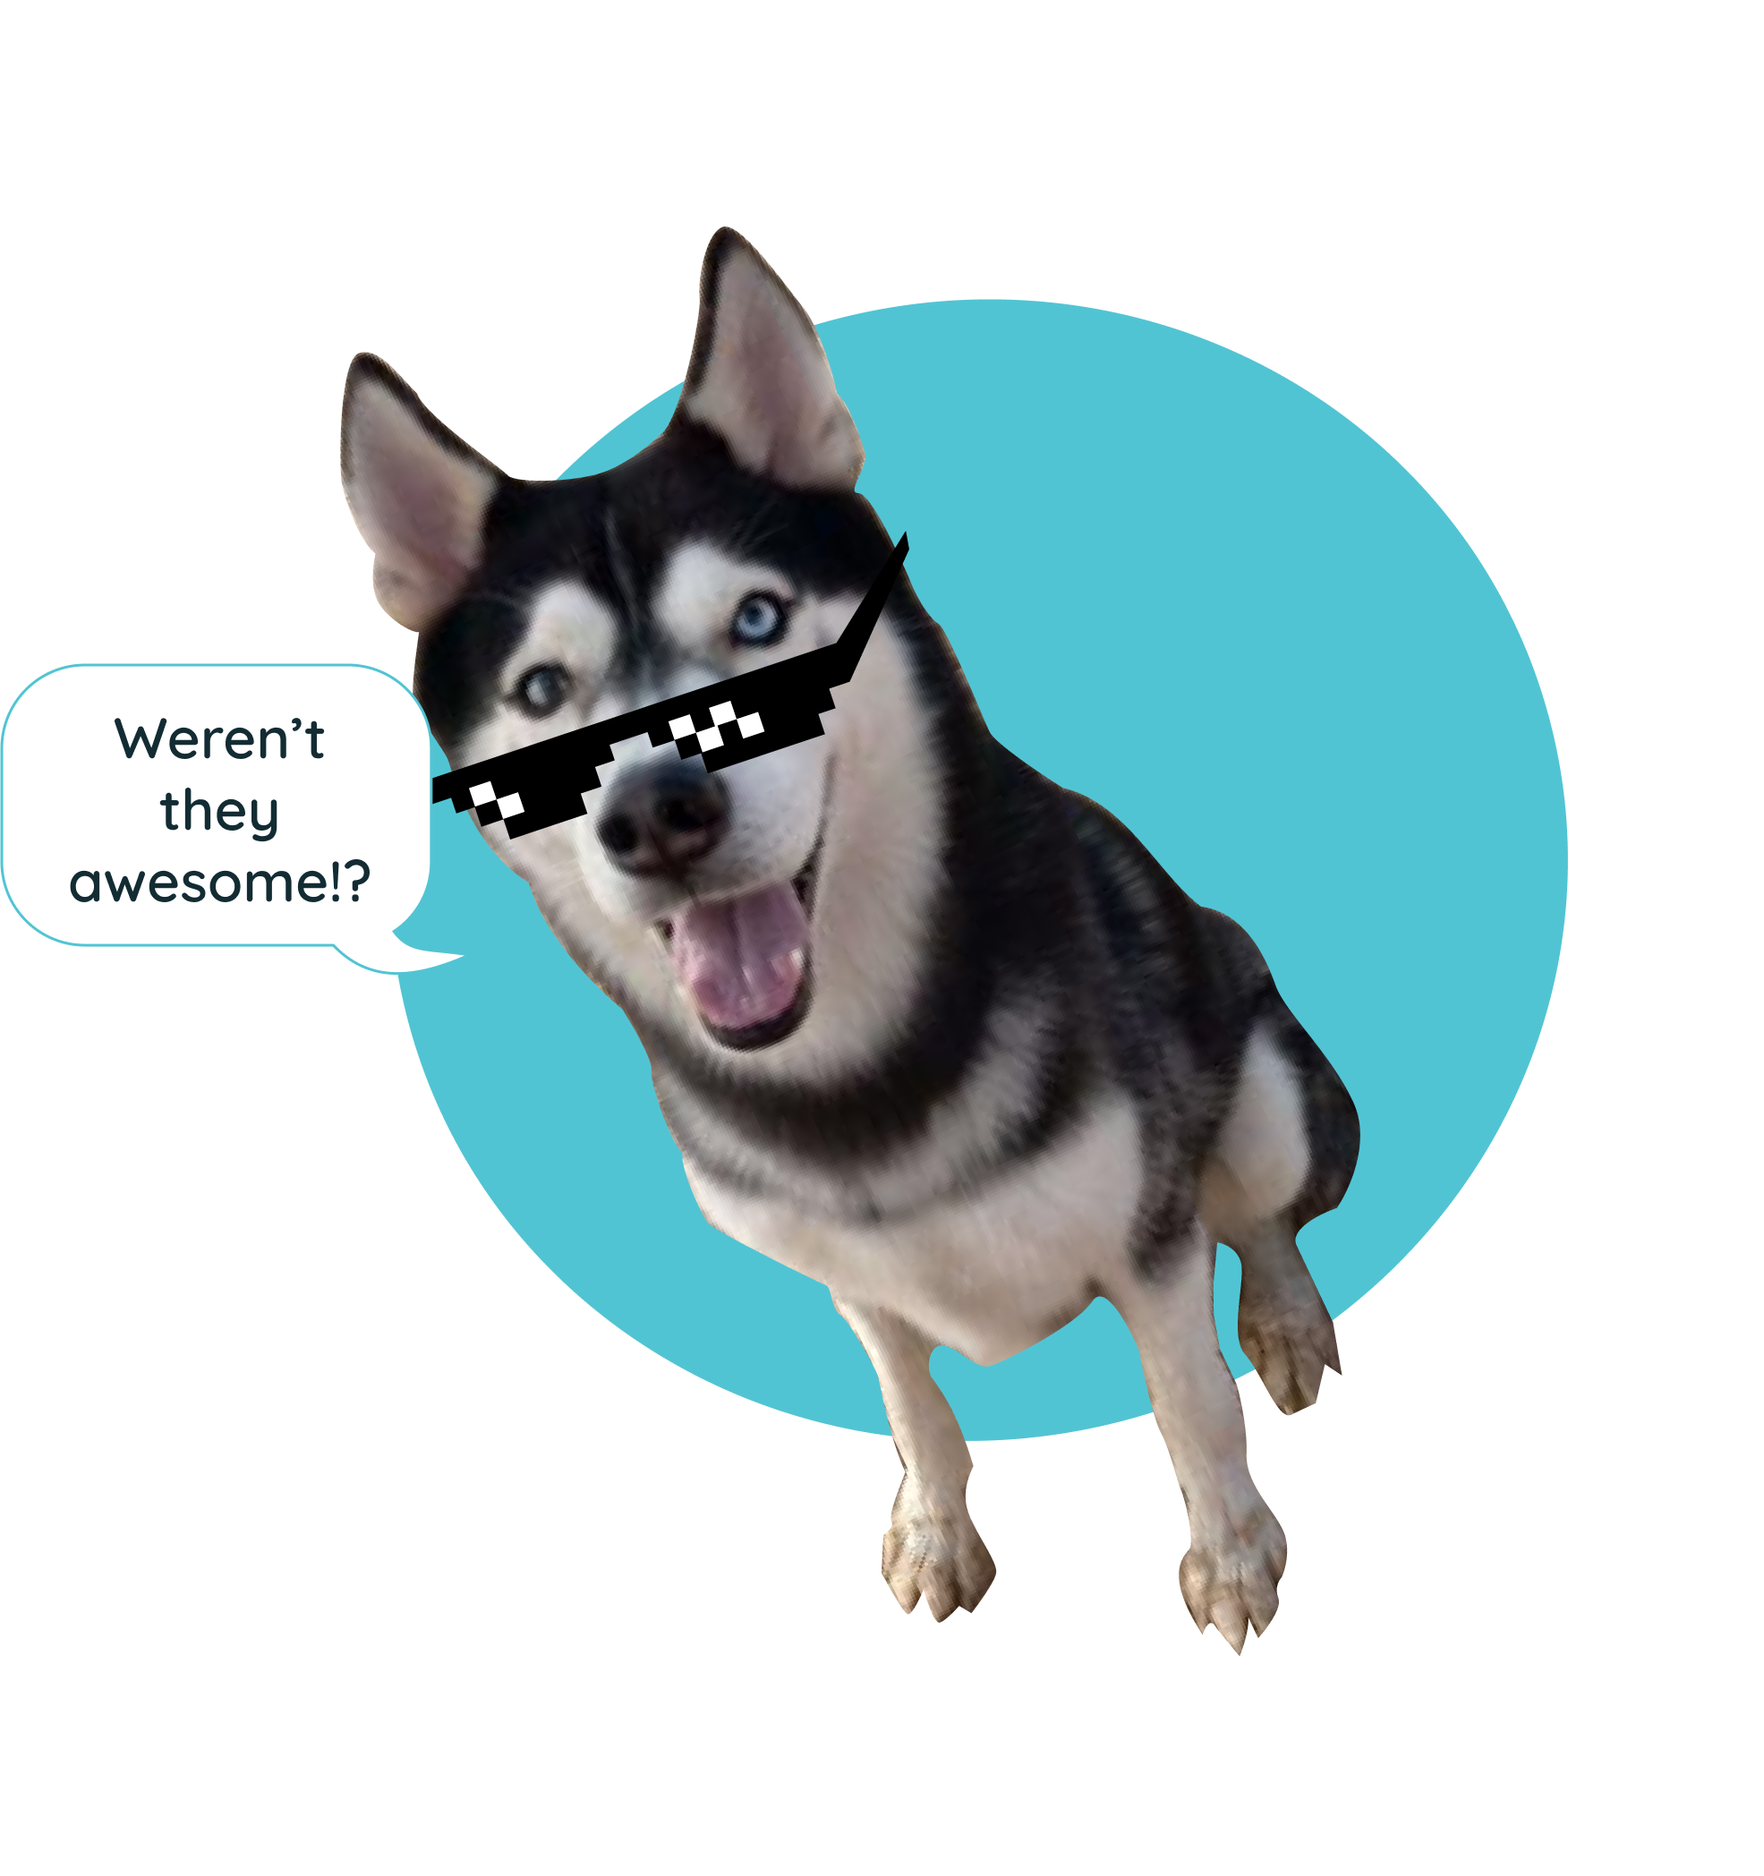
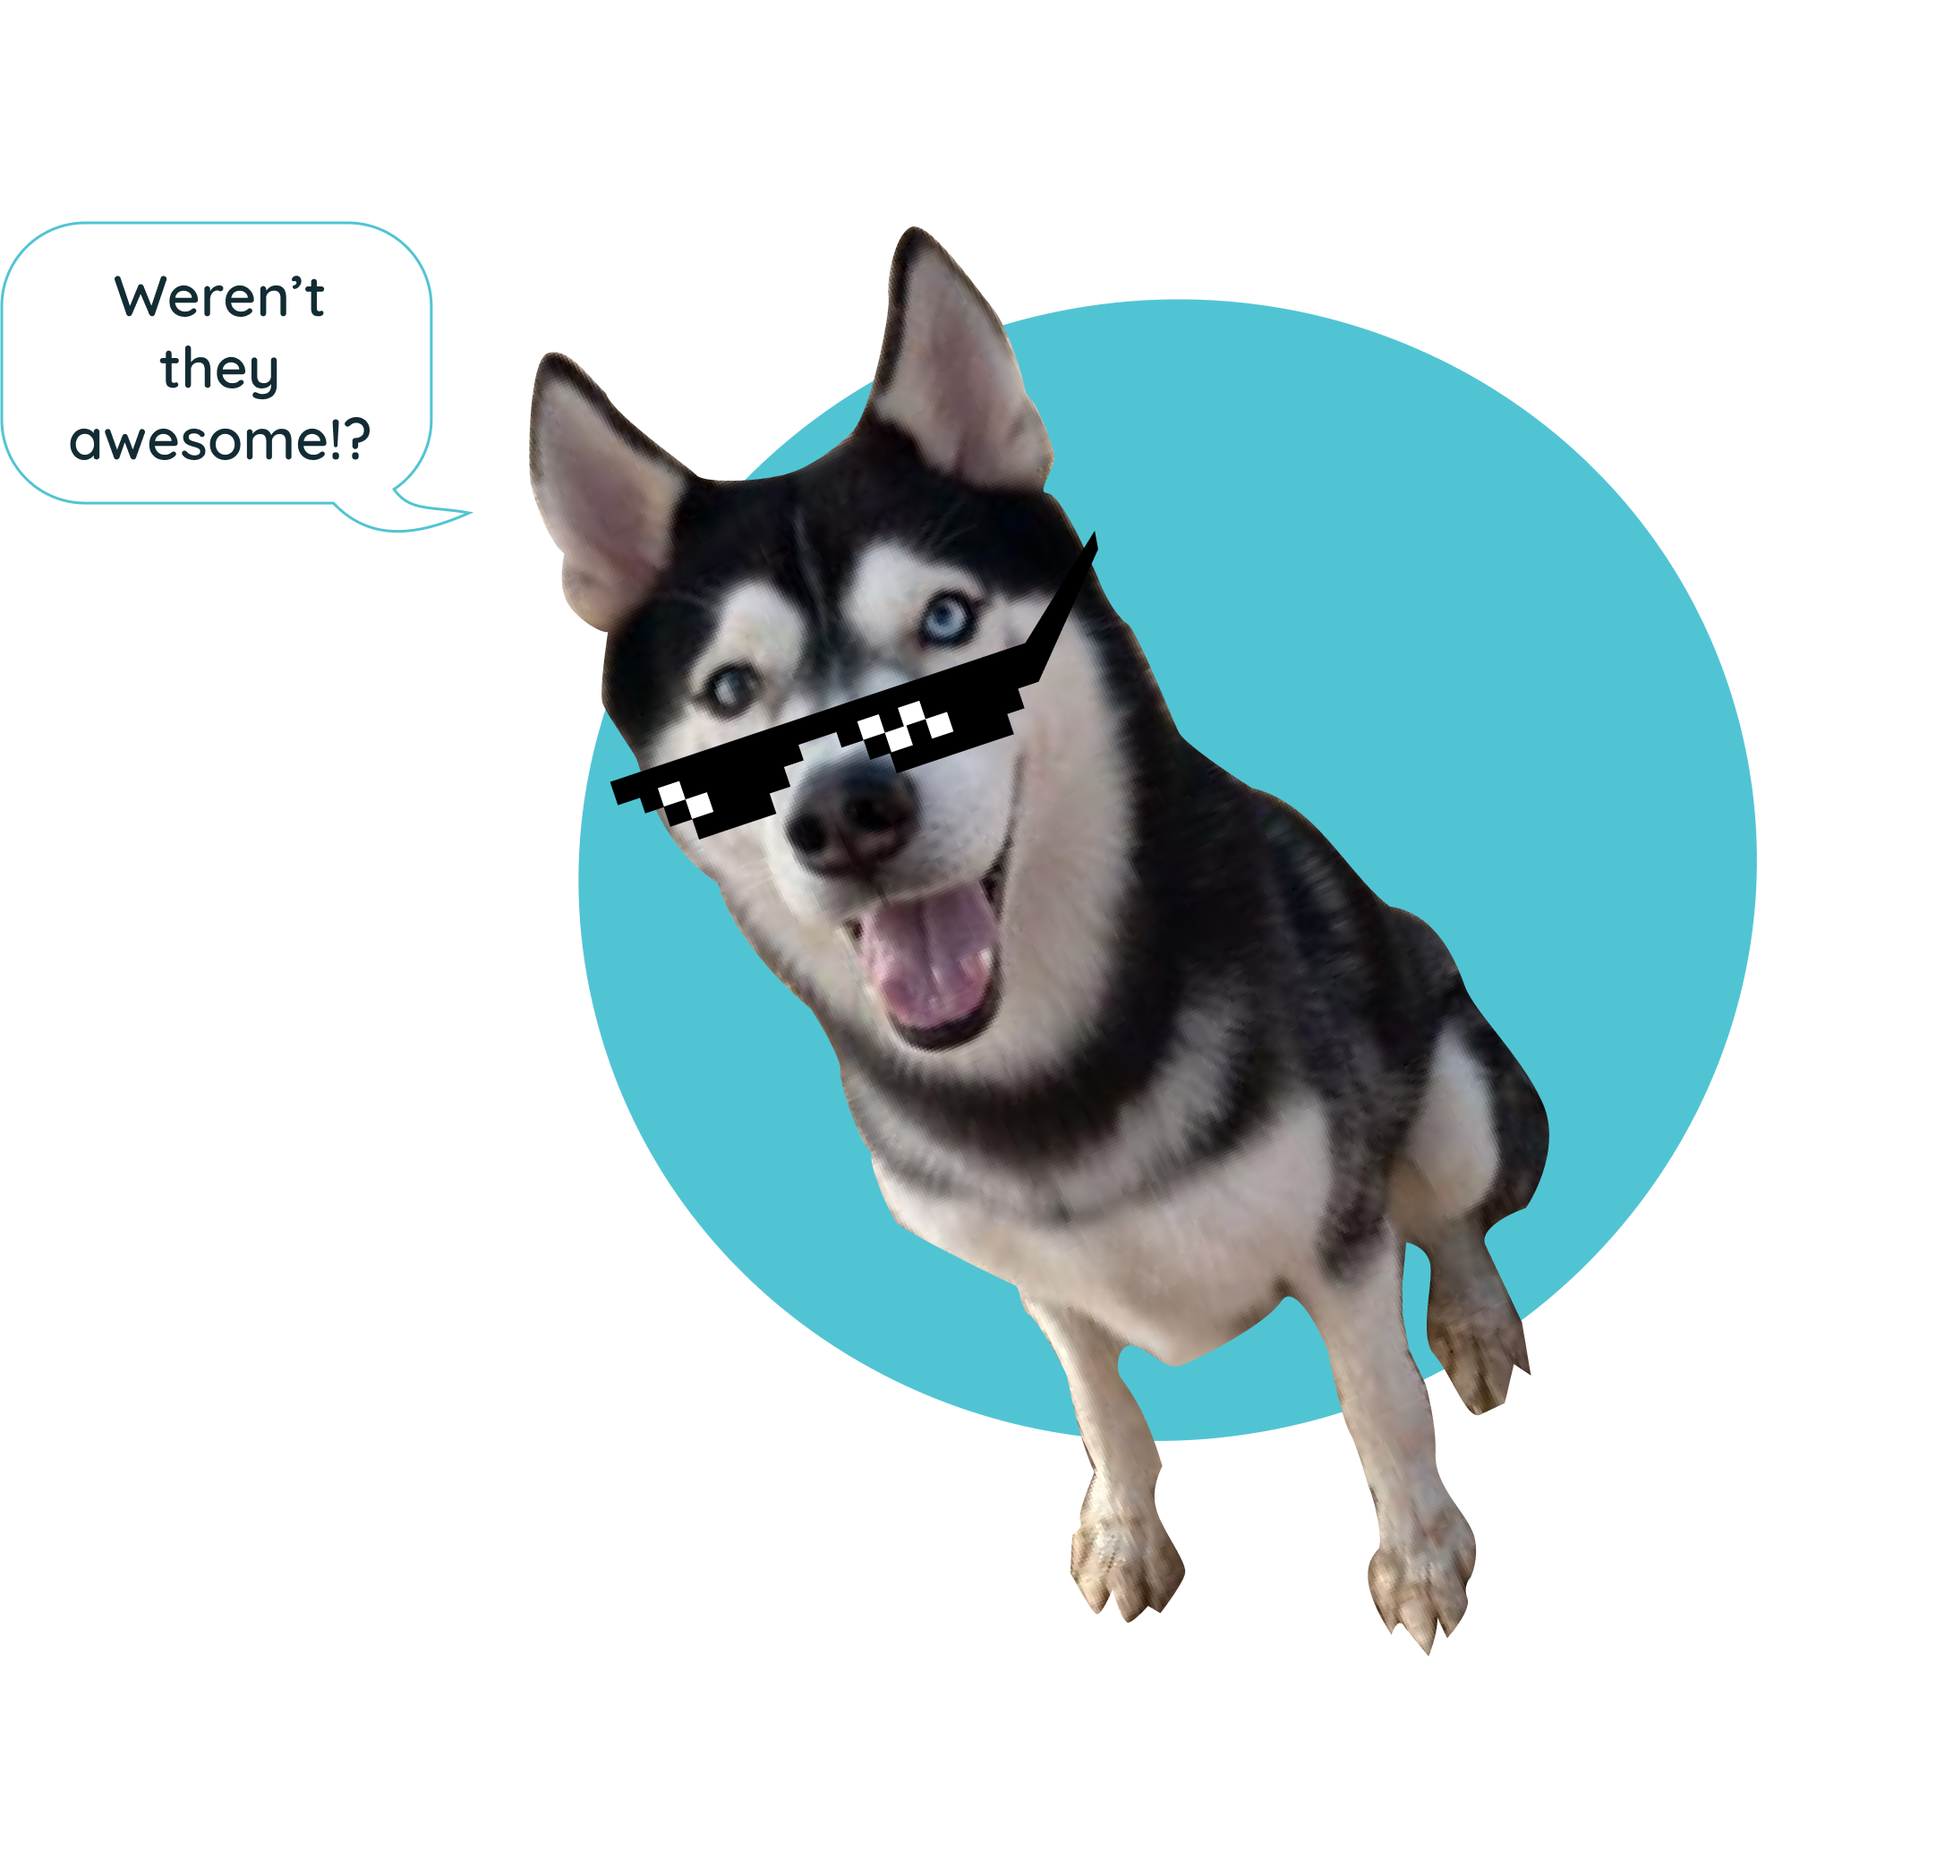
background fixed for desktop, card flex-direction fixed for tablet

diff --git a/styles/pawjects.css b/styles/pawjects.css
@@ -1,4 +1,4 @@
-/* ------- fonts and global stuff ------- */
+/* ------- fonts and global stuff start ------- */
 
 @import url("https://fonts.googleapis.com/css2?family=Quicksand:wght@300;400;500;600;700&display=swap");
 
@@ -23,9 +23,14 @@ body {
   background-repeat: repeat;
 }
 
-/* ------- fonts and global stuff ------- */
+/* ------- fonts and global stuff end------- */
 
 /* ------- Pawjects Section Start ------- */
+
+main {
+  display: flex;
+  flex-direction: column;
+}
 
 .pawjects {
   padding: 50px;
@@ -203,19 +208,81 @@ body {
 
 /*------- Pawjects Section End ------- */
 
+/*------- Background Start --------*/
+
+.background {
+  position: relative;
+  width: 100%;
+  height: calc(500px + 5vh);
+  margin-top: 50px;
+  overflow: hidden;
+}
+
+.background .alfie {
+  height: clamp(300px, 65vh, 80vh);
+  z-index: -10;
+  position: absolute;
+  bottom: calc(-100px + -3vh);
+  left: calc(-100px + -3vw);
+}
+
+.background .oreo {
+  height: clamp(40em, 60em, 80em);
+  z-index: -10;
+  position: absolute;
+  bottom: calc(-300px + -0.5vh);
+  right: calc(-300px + -0.5vw);
+}
+
+.both-bois-pawjects {
+  display: block;
+}
+
+/*------- Background End --------*/
+
+/*------- Tablet Media Queries Start --------*/
+
 @media only screen and (max-width: 1000px) {
+  .pawjects-container {
+    grid-template-columns: repeat(1, 1fr);
+    padding: 20px;
+  }
+
   .pawject-card.orange-card {
     flex-direction: column-reverse;
+  }
+
+  .pawject-card.teal-card {
+    flex-direction: column;
   }
 
   .pawject-card.orange-card > .pawject-media {
     flex-wrap: nowrap;
   }
+
+  .background .alfie {
+    display: none;
+  }
+
+  .background .oreo {
+    height: calc(50em - 10vh);
+    bottom: calc(-300px + -2vh);
+  }
 }
+
+/*------- Tablet Media Queries End --------*/
 
 /*------- Mobile Media Query Start ------- */
 
 @media only screen and (max-width: 600px) {
+  .background .alfie {
+    display: block;
+  }
+
+  .background .oreo {
+    display: none;
+  }
+
   .pawjects {
     padding: 20px;
     gap: 10px;

diff --git a/pages/pawjects.html b/pages/pawjects.html
@@ -410,6 +410,18 @@
           </article>
         </div>
       </section>
+      <section class="background">
+        <img
+          src="../assets/images/alfie-pawjects.png"
+          alt="Handsome tri colored corgi wearing cool sunglasses"
+          class="both-bois-pawjects alfie"
+        />
+        <img
+          src="../assets/images/oreo-pawjects.png"
+          alt="Handsome gray and white husky wearing cool sunglasses"
+          class="both-bois-pawjects oreo"
+        />
+      </section>
     </main>
     <footer>
       <section class="footer-contact">

diff --git a/styles/fragments.css b/styles/fragments.css
@@ -176,7 +176,6 @@ footer,
 }
 
 footer {
-  margin-top: 50px;
   background-color: var(--dark-teal);
   color: var(--white);
   padding: 30px;
@@ -225,7 +224,7 @@ footer {
   }
 }
 
-@media only screen and (max-width: 900px) {
+@media only screen and (max-width: 1000px) {
   header {
     flex-direction: column;
     justify-content: center;
